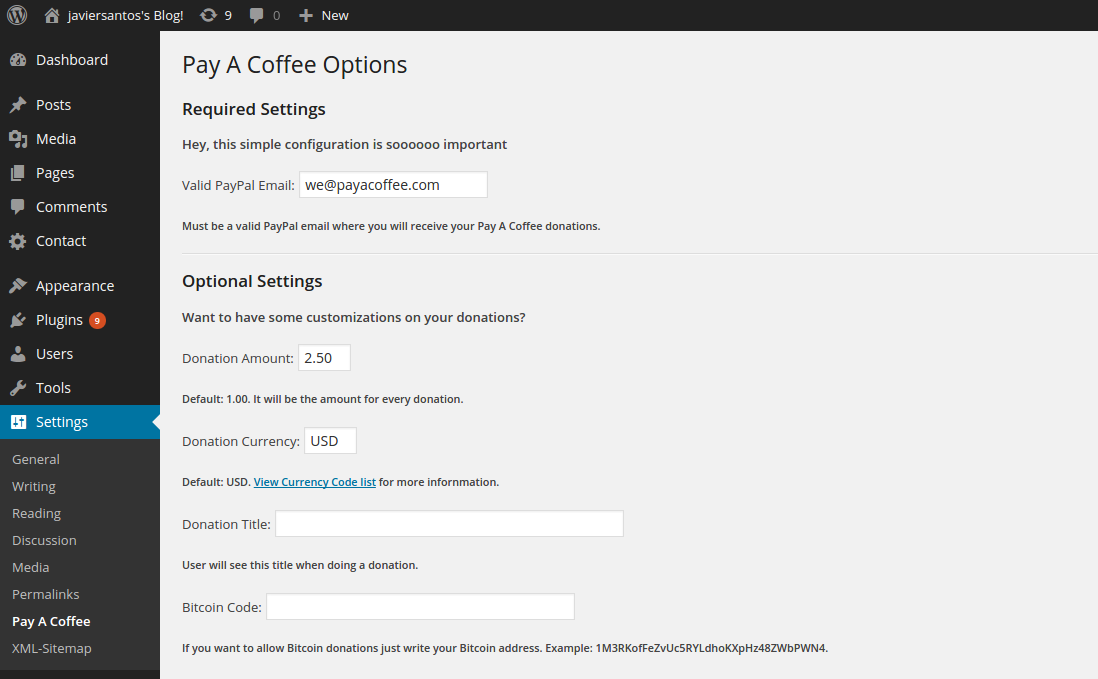
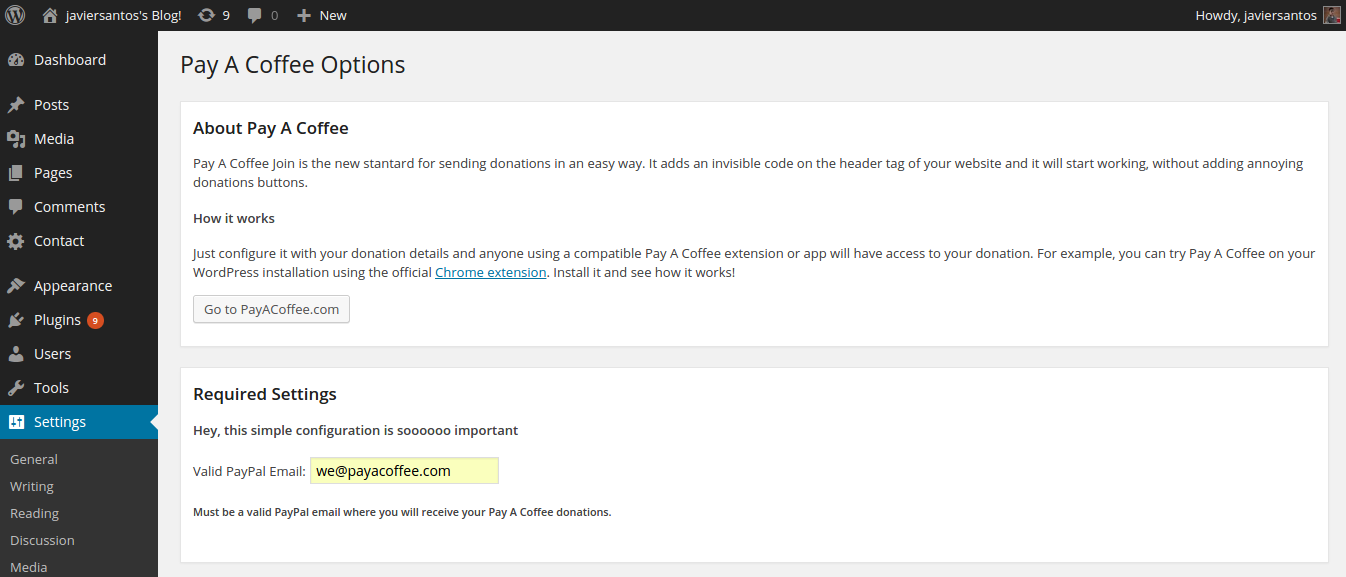
Prepare 1.0.1 version

Changed region(s): [[0.0, 0.0, 1.0, 1.0]]

diff --git a/payacoffee_options.php b/payacoffee_options.php
@@ -28,42 +28,58 @@
 ?>
 
 <div class="wrap">
-    <?php echo "<h2>" . __( 'Pay A Coffee Options', 'payacoffee_trdom' ) . "</h2>"; ?>
+    <?php echo "<h2>" . __( 'Pay A Coffee Options', 'payacoffee' ) . "</h2>"; ?><br />
 
     <form name="payacoffee_form" method="post" action="<?php echo str_replace( '%7E', '~', $_SERVER['REQUEST_URI']); ?>">
         <input type="hidden" name="payacoffee_hidden" value="Y">
-        <?php echo "<h3>" . __( 'Required Settings', 'payacoffee_trdom' ) . "</h3>"; ?>
-        <?php echo "<h4>" . __( 'Hey, this simple configuration is soooooo important', 'payacoffee_trdom' ) . "</h4>"; ?>
-        <p>
-        <?php _e("Valid PayPal Email: " ); ?>
-        <input type="text" name="payacoffee_email" value="<?php echo $email; ?>" size="20" required>
-        <?php echo "<h5>" . __( 'Must be a valid PayPal email where you will receive your Pay A Coffee donations.', 'payacoffee_trdom' ) . "</h5>"; ?>
-        </p>
-        <hr />
-        <?php echo "<h3>" . __( 'Optional Settings', 'payacoffee_trdom' ) . "</h3>"; ?>
-        <?php echo "<h4>" . __( 'Want to have some customizations on your donations?', 'payacoffee_trdom' ) . "</h4>"; ?>
-        <p>
-        <?php _e("Donation Amount: " ); ?>
-        <input type="text" name="payacoffee_amount" value="<?php echo $amount; ?>" size="3">
-        <?php echo "<h5>" . __( 'Default: 1.00. It will be the amount for every donation.', 'payacoffee_trdom' ) . "</h5>"; ?>
-        </p>
-        <p>
-        <?php _e("Donation Currency: " ); ?>
-        <input type="text" name="payacoffee_currency" value="<?php echo $currency; ?>" size="3">
-        <?php echo "<h5>" . __( 'Default: USD. <a href="https://developer.paypal.com/docs/classic/api/currency_codes/">View Currency Code list</a> for more infornmation.', 'payacoffee_trdom' ) . "</h5>"; ?>
-        </p>  
-        <p>
-        <?php _e("Donation Title: " ); ?>
-        <input type="text" name="payacoffee_title" value="<?php echo $title; ?>" size="40">
-        <?php echo "<h5>" . __( 'User will see this title when doing a donation.', 'payacoffee_trdom' ) . "</h5>"; ?>
-        </p>
-        <?php _e("Bitcoin Code: " ); ?>
-        <input type="text" name="payacoffee_bitcoin" value="<?php echo $title; ?>" size="35">
-        <?php echo "<h5>" . __( 'If you want to allow Bitcoin donations just write your Bitcoin address. Example: 1M3RKofFeZvUc5RYLdhoKXpHz48ZWbPWN4.', 'payacoffee_trdom' ) . "</h5>"; ?>
-        </p>
-     
-        <p class="submit">
-        <input type="submit" name="Submit" class="button-primary" value="<?php _e('Update Options', 'payacoffee_trdom' ) ?>" />
-        </p>
+            <div id="box" class="postbox">
+                <div class="inside">
+                    <?php echo "<h3>" . __( 'About Pay A Coffee', 'payacoffee' ) . "</h3>"; ?>
+                    <?php echo "<p>" . __( 'Pay A Coffee Join is the new stantard for sending donations in an easy way. It adds an invisible code on the header tag of your website and it will start working, without adding annoying donations buttons.', 'payacoffee' ) . "</p>"; ?>
+                    <?php echo "<h4>" . __( 'How it works', 'payacoffee' ) . "</h4>"; ?>
+                    <?php echo "<p>" . __( 'Just configure it with your donation details and anyone using a compatible Pay A Coffee extension or app will have access to your donation. For example, you can try Pay A Coffee on your WordPress installation using the official <a href="https://chrome.google.com/webstore/detail/pay-a-coffee/ffokbedefobniifhidnnggfjgfmabhee" target="_blank">Chrome extension</a>. Install it and see how it works!', 'payacoffee' ) . "</p>"; ?>
+                    <a class="button-secondary" href="http://payacoffee.com">Go to PayACoffee.com</a>
+                </div>
+            </div>
+            <div id="box" class="postbox">
+                <div class="inside">
+                    <?php echo "<h3>" . __( 'Required Settings', 'payacoffee' ) . "</h3>"; ?>
+                    <?php echo "<h4>" . __( 'Hey, this simple configuration is soooooo important', 'payacoffee' ) . "</h4>"; ?>
+                    <p>
+                    <?php _e("Valid PayPal Email: " ); ?>
+                    <input type="text" name="payacoffee_email" value="<?php echo $email; ?>" size="20" required>
+                    <?php echo "<h5>" . __( 'Must be a valid PayPal email where you will receive your Pay A Coffee donations.', 'payacoffee' ) . "</h5>"; ?>
+                    </p>
+                </div>
+            </div>
+            <div id="box" class="postbox">
+                <div class="inside">
+                    <?php echo "<h3>" . __( 'Optional Settings', 'payacoffee' ) . "</h3>"; ?>
+                    <?php echo "<h4>" . __( 'Want to have some customizations on your donations?', 'payacoffee' ) . "</h4>"; ?>
+                    <p>
+                    <?php _e("Donation Amount: " ); ?>
+                    <input type="text" name="payacoffee_amount" value="<?php echo $amount; ?>" size="3">
+                    <?php echo "<h5>" . __( 'Default: 1.00. It will be the amount for every donation.', 'payacoffee' ) . "</h5>"; ?>
+                    </p>
+                    <p>
+                    <?php _e("Donation Currency: " ); ?>
+                    <input type="text" name="payacoffee_currency" value="<?php echo $currency; ?>" size="3">
+                    <?php echo "<h5>" . __( 'Default: USD. <a href="https://developer.paypal.com/docs/classic/api/currency_codes/" target="_blank">View Currency Code list</a> for more infornmation.', 'payacoffee_trdom' ) . "</h5>"; ?>
+                    </p>  
+                    <p>
+                    <?php _e("Donation Title: " ); ?>
+                    <input type="text" name="payacoffee_title" value="<?php echo $title; ?>" size="40">
+                    <?php echo "<h5>" . __( 'User will see this title when doing a donation.', 'payacoffee' ) . "</h5>"; ?>
+                    </p>
+                    <?php _e("Bitcoin Code: " ); ?>
+                    <input type="text" name="payacoffee_bitcoin" value="<?php echo $title; ?>" size="35">
+                    <?php echo "<h5>" . __( 'If you want to allow Bitcoin donations just write your Bitcoin address. Example: 1M3RKofFeZvUc5RYLdhoKXpHz48ZWbPWN4.', 'payacoffee_trdom' ) . "</h5>"; ?>
+                    </p>
+                </div>
+            </div>
+            <p class="submit">
+                <input type="submit" name="Submit" class="button-primary" value="<?php _e('Update Options', 'payacoffee' ) ?>" />
+                <input type="submit" onclick='return confirm("Do you really want to reset your configuration?");' name="payacoffee_reset_config" value="<?php _e('Reset Options', 'payacoffee'); ?>" />
+            </p>
     </form>
 </div>

diff --git a/payacoffee.php b/payacoffee.php
@@ -4,7 +4,7 @@
     Plugin URI: http://www.payacoffee.com
     Description: Redefining the donations over the Internet. Join the new standard for sending donations in an easy way.
     Author: PayACoffee.com
-    Version: 1.0
+    Version: 1.0.1
     Author URI: http://www.payacoffee.com
     */
 
@@ -21,11 +21,11 @@ function insertPayACoffee() {
     $amount = get_option('payacoffee_amount');
     $currency = get_option('payacoffee_currency');
     $title = get_option('payacoffee_title');
-    $title = get_option('payacoffee_bitcoin');
+    $bitcoin = get_option('payacoffee_bitcoin');
     
     if ($email != "") {
     ?>
-<meta name="payacoffee" email="<?php echo $email; ?>" amount="<?php echo $amount; ?>" currency="<?php echo $currency; ?>" title="<?php echo $title; ?>" bitcoin="<?php echo $bitcoin; ?>" />
+<meta value="payacoffee" email="<?php echo $email; ?>" amount="<?php echo $amount; ?>" currency="<?php echo $currency; ?>" title="<?php echo $title; ?>" bitcoin="<?php echo $bitcoin; ?>"  />
     <?php 
     }
 
